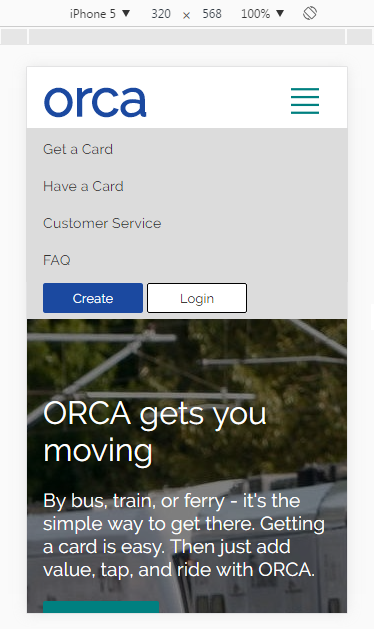
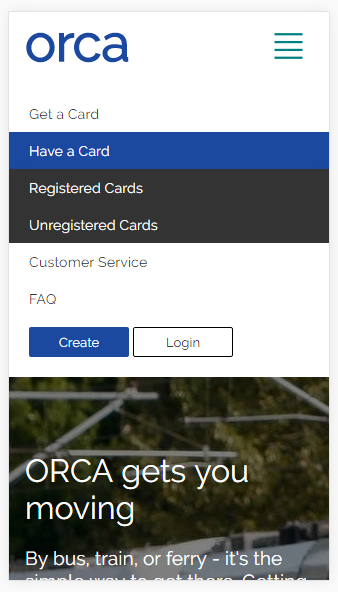
Updating styles for mobile menu

diff --git a/orca/src/app/menu/menu.component.ts b/orca/src/app/menu/menu.component.ts
@@ -15,6 +15,7 @@ export class MenuComponent implements OnInit {
     public menu: Menu;
     public burger: boolean = false;
     public isMobile: boolean = false;
+    public activeItem: Item = null;
 
     constructor(ngZone: NgZone) {
 
@@ -29,10 +30,14 @@ export class MenuComponent implements OnInit {
           items: [
               {
                 label: 'Get a Card',
-                subItems: null
+                subItems: null,
+                isActive: !this.isMobile,
+                link: 'get-a-card'
               },
               {
                 label: 'Have a Card',
+                isActive: !this.isMobile,
+                link: null,
                 subItems: [
                     {
                         label: 'Registered Cards',
@@ -45,44 +50,48 @@ export class MenuComponent implements OnInit {
                 ]
               },
               {
-                  label: 'Customer Service',
-                  subItems: [
-                      {
-                          label: 'Pierce Transit',
-                          link: ''
-                      },
-                      {
-                          label: 'Washington State Ferries',
-                          link: ''
-                      },
-                      {
-                          label: 'Sound Transit',
-                          link: ''
-                      },
-                      {
-                          label: 'ORCA Regional Call Center',
-                          link: ''
-                      },
-                      {
-                          label: 'Everett Transit',
-                          link: ''
-                      },
-                      {
-                          label: 'King County',
-                          link: ''
-                      },
-                      {
-                          label: 'Washington State Ferries',
-                          link: ''
-                      },
-                      {
-                          label: 'ORCA To-Go',
-                          link: ''
-                      },
-                  ]
+                label: 'Customer Service',
+                isActive: !this.isMobile,
+                link: null,
+                subItems: [
+                    {
+                        label: 'Pierce Transit',
+                        link: ''
+                    },
+                    {
+                        label: 'Washington State Ferries',
+                        link: ''
+                    },
+                    {
+                        label: 'Sound Transit',
+                        link: ''
+                    },
+                    {
+                        label: 'ORCA Regional Call Center',
+                        link: ''
+                    },
+                    {
+                        label: 'Everett Transit',
+                        link: ''
+                    },
+                    {
+                        label: 'King County',
+                        link: ''
+                    },
+                    {
+                        label: 'Washington State Ferries',
+                        link: ''
+                    },
+                    {
+                        label: 'ORCA To-Go',
+                        link: ''
+                    },
+                ]
               },
               {
                 label: 'FAQ',
+                isActive: !this.isMobile,
+                link: null,
                 subItems: [
                     {
                         label: 'Add Value',
@@ -114,11 +123,33 @@ export class MenuComponent implements OnInit {
  
     }
 
+    // todo: if resizing then set flags isActive accordingly
     checkMobile() {
-        this.isMobile = (window.innerWidth < 770) ? true : false
+        this.isMobile = (window.innerWidth < 770) ? true : false;
     }
 
-    handleBurger(event) {
+    // todo: collapse all on route change
+    collapseAll() {
+        for (var i = 0; i < this.menu.items.length; i++) {
+            var item: Item = this.menu.items[i];
+            item.isActive = false;
+        }
+    }
+
+    burgerClick(event) {
         this.burger = !this.burger;
+
+        if (this.burger == false) {
+            this.collapseAll();
+        }
+    }
+
+    menuItemClick(item) {
+        if (this.activeItem != null && this.activeItem != item) {
+            this.activeItem.isActive = false;
+        }
+
+        this.activeItem = item;
+        item.isActive = !item.isActive;
     }
 }

diff --git a/orca/src/app/menu/menu.component.html b/orca/src/app/menu/menu.component.html
@@ -1,13 +1,16 @@
 <div class="top-container" >
     <div class="top">
         <div class="orca-logo-word"  [routerLink]="['']">orca</div>
-        <div class="hamburger" (click)="handleBurger()"></div>
+        <div class="hamburger" (click)="burgerClick()"></div>
         <div *ngIf="burger || !isMobile" [@slideInOut]="burger && isMobile" class="menu-container">
             <ul class="menu">
                 <div *ngFor="let item of menu.items" class="dropdown">
                     <!-- todo: figure out  routerLinkActive="active" -->
-                    <li class="menu-item" [routerLink]="['get-a-card']">{{ item.label }}</li>
-                    <div class="menu-item-content">
+                    <!-- if it's a top level link with no children -->
+                    <li *ngIf="item.link" class="menu-item" [routerLink]="[item.link]" (click)="menuItemClick(item)">{{ item.label }}</li>
+                    <!-- else it has children with no link -->
+                    <li *ngIf="!item.link" class="menu-item" (click)="menuItemClick(item)">{{ item.label }}</li>
+                    <div class="menu-item-content"  *ngIf="item.isActive" [@slideInOut]="item.isActive && isMobile">
                         <div *ngFor="let subItem of item.subItems">
                             <a class="menu-sub-item" [routerLink]="[subItem.link]">{{ subItem.label }}</a>
                         </div>

diff --git a/orca/src/app/user-menu/user-menu.component.ts b/orca/src/app/user-menu/user-menu.component.ts
@@ -5,7 +5,13 @@ import { slideInOut } from '../animations/slideInOut';
 @Component({
     selector: 'app-user-menu',
     templateUrl: '../menu/menu.component.html',
-    styleUrls: ['../app.component.css', '../menu/menu.component.css', '../menu/menu.component-mobile.css', './user-menu.component.css'],
+    styleUrls: [
+        '../app.component.css',
+        '../menu/menu.component.css',
+        '../menu/menu.component-mobile.css',
+        './user-menu.component.css',
+        './user-menu.component-mobile.css'
+        ],
     animations: [ slideInOut ]
 })
 export class UserMenuComponent implements OnInit {
@@ -26,6 +32,8 @@ export class UserMenuComponent implements OnInit {
             items: [
                 {
                     label: 'Hi, Kiah ▾',
+                    isActive: true,
+                    link: null,
                     subItems: [
                         {
                             label: 'Account Details',
@@ -56,7 +64,11 @@ export class UserMenuComponent implements OnInit {
         this.isMobile = (window.innerWidth < 750) ? true : false
     }
 
-    handleBurger(event) {
+    burgerClick(event) {
         this.burger = !this.burger;
+    }
+
+    menuItemClick(item) {
+        // empty
     }
 }

diff --git a/orca/src/app/menu/menu.component-mobile.css b/orca/src/app/menu/menu.component-mobile.css
@@ -12,7 +12,7 @@
     .menu-container {
         float: left;
         width: 100%;
-        padding: 0 20px 20px;
+        padding: 0 0 20px;
     }
 
     .hamburger {
@@ -30,34 +30,33 @@
     }
 
     .menu-item {
-        padding: 10px 0;
+        padding: 10px 20px;
     }
 
     .menu-item:hover {
-        background-color: gainsboro;
+        background-color: #0d338a;
+        color: white;
     }
 
     .menu-item:after {
-        background-color: gainsboro;
+        background-color: #0d338a;
         transition: initial;
     }
 
     .menu-sub-item {
         color: white;
-        background-color: teal;
+        background-color: #1b49a0;
+        padding: 10px 20px;
     }
 
     .menu-item-content {
         width: 100%;
         position: relative;
         border-top: 0px;
-    }
-
-    .dropdown:hover > .menu-item-content {
-        display: none;
+        display: block;
     }
 
     .btn-container {
-        padding: 0;
+        padding: 10px 20px 0;
     }
 }

diff --git a/orca/src/app/user-menu/user-menu.component-mobile.css b/orca/src/app/user-menu/user-menu.component-mobile.css
@@ -1,0 +1,17 @@
+@media screen and (max-width: 770px) {
+    .menu-container {
+        padding: 0;
+    }
+
+    .menu {
+        margin: 0;
+    }
+
+    .menu-item {
+        font-size: inherit;
+        color: white;
+        background: #0d338a;
+        font-weight: normal;
+        padding: 10px 20px;
+    }
+}

diff --git a/orca/src/app/menu/menu.component.css b/orca/src/app/menu/menu.component.css
@@ -109,7 +109,7 @@ li.active::after {
     height: 32px;
     width: 32px;
     cursor: pointer;
-    background-color: teal;
+    background-color: #1b49a0;
     -webkit-mask: url(assets/images/hamburger.svg) no-repeat 50% 50%;
     -webkit-mask-size: 90% 90%;
 }

diff --git a/orca/src/app/menu-model.ts b/orca/src/app/menu-model.ts
@@ -7,6 +7,8 @@ export class Menu {
 export class Item {
     label: string;
     subItems: Array<SubItem>;
+    isActive: boolean;
+    link: string;
 }
 
 // defines the structure of a submenu

diff --git a/orca/src/app/user-home/user-home.component.css b/orca/src/app/user-home/user-home.component.css
@@ -45,7 +45,7 @@ th {
 }
 
 tr {
-    background: gainsboro;
+    background: #f4f4f4;
 }
 
 td {
